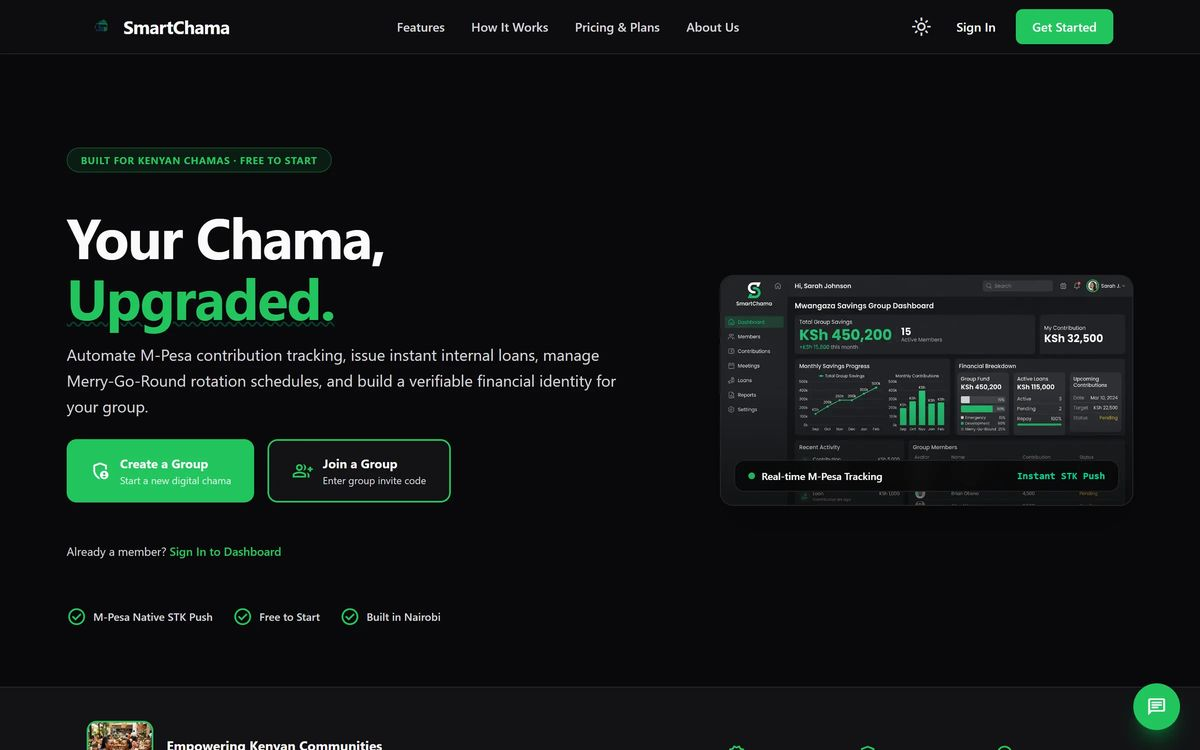
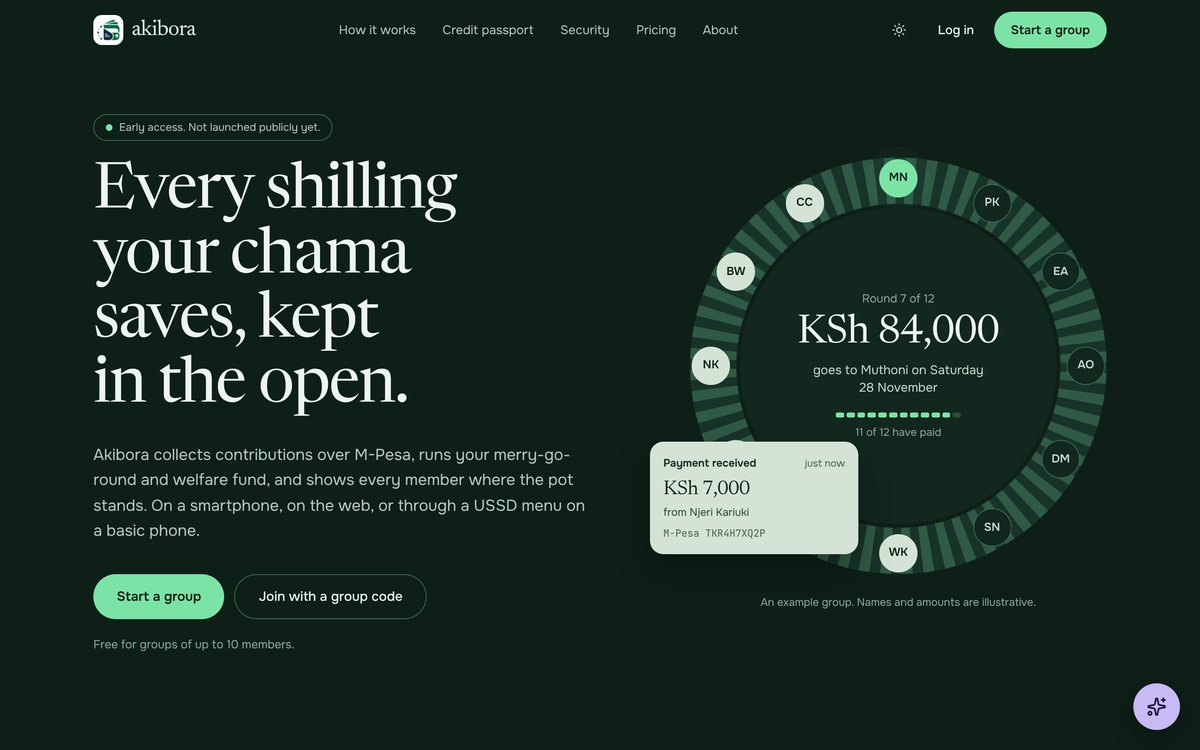
docs: SmartChama is now Akibora
Claude-Session: https://claude.ai/code/session_01GBAi3HGPfWSDjd6C3vrCeq

diff --git a/README.md b/README.md
@@ -19,7 +19,8 @@ I'm Lenny, a Computer Science student at the Catholic University of Eastern Afri
 
 - **Shipped** — [Allenet Bakers](https://allenetbakers.vercel.app): full rebrand and website for a custom-cake bakery
 - **Launching** — [Saka](https://sakahapa.app) in a soft launch with professionals first, and building its Android app
-- **Building** — [Akibora](#being-built) (SmartChama, redesigned) and two client products, Atrium and Planwright
+- **Relaunched** — [Akibora](https://www.smartchama.tech), SmartChama rebuilt for web and Android on one database
+- **Building** — two client products, Atrium and Planwright
 - **Studying** — for December exams: AI, statistics, computer architecture, OOP and cloud computing
 
 ## Selected work
@@ -62,15 +63,15 @@ Finding a plumber, electrician, salon or mechanic you can trust in Nairobi usual
 </td>
 <td width="50%" valign="top">
 
-<a href="https://smartchama.tech"><img src="./assets/work/smart-chama.jpg" width="100%" alt="SmartChama landing page"></a>
+<a href="https://www.smartchama.tech"><img src="./assets/work/smart-chama.jpg" width="100%" alt="Akibora home page: Every shilling your chama saves, kept in the open"></a>
 
-### SmartChama → Akibora
-<sub>Product · 2026 · Hackathon winner</sub>
+### Akibora <sub>(formerly SmartChama)</sub>
+<sub>Product · 2026 · Hackathon winner · Early access</sub>
 
-Savings and loan platform for Kenyan chama groups, with a smart-contract layer.
+Chama savings over M-Pesa: merry-go-round, welfare, loans and a credit passport, all in the open.
 
-<sub>Next.js · TypeScript · Solidity · Ethereum</sub><br>
-[Live](https://smartchama.tech) · [Code](https://github.com/chillyreward/SmartChama)
+<sub>Next.js 16 · React 19 · Supabase · M-Pesa Daraja · Expo · Solidity</sub><br>
+[Live](https://www.smartchama.tech) · [Code](https://github.com/chillyreward/SmartChama)
 
 <details>
 <summary><b>Case notes</b></summary>
@@ -82,7 +83,7 @@ Chamas run on trust, but most still track contributions, loans and Merry-Go-Roun
 
 **Recognition:** 1st place at Red, White & Build (U.S. Embassy Kenya), 2nd at Beorchild. Built with Rachael, Shilla and Nanjoli.
 
-**Next:** it's becoming **Akibora**, with a full redesign of the web and mobile apps on one shared database.
+**Now:** relaunched as **Akibora**, with the web and Android apps rebuilt from scratch on one shared, locked-down database. Members' on-time payments build a trust score they can download as a credit passport. Automatic M-Pesa payouts and SmartGrow aren't open yet.
 </details>
 
 </td>
@@ -230,25 +231,9 @@ Camping gear, Kenyan campsites and guided trips, with an inquiry basket sent ove
 
 <sub>Work in progress. Most of these repositories are private, so they don't show on my profile; <a href="mailto:lennykidavik@gmail.com?subject=Walkthrough%20request">ask me for a walkthrough</a>.</sub>
 
+**Saka for Android** — a 1–2 MB app that opens Saka full-screen and shares the website's database, for phones with little storage.
+
 <table>
-<tr>
-<td width="50%" valign="top">
-
-### Saka for Android
-<sub>Own product · In build</sub>
-
-A 1–2 MB Android app (Trusted Web Activity) that opens Saka full-screen and shares the website's database, so it fits on phones with little storage.
-
-</td>
-<td width="50%" valign="top">
-
-### Akibora
-<sub>Own product · Redesign in progress</sub>
-
-SmartChama, renamed and redesigned from scratch for web and mobile, keeping the green brand and moving both apps onto one shared database.
-
-</td>
-</tr>
 <tr>
 <td width="50%" valign="top">
 
